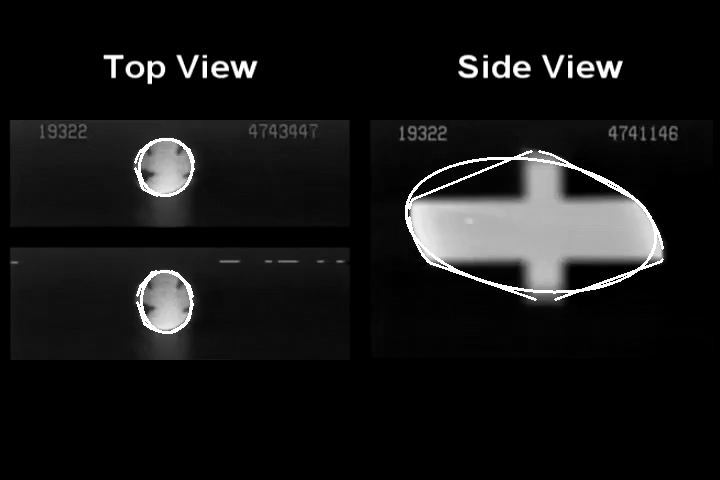
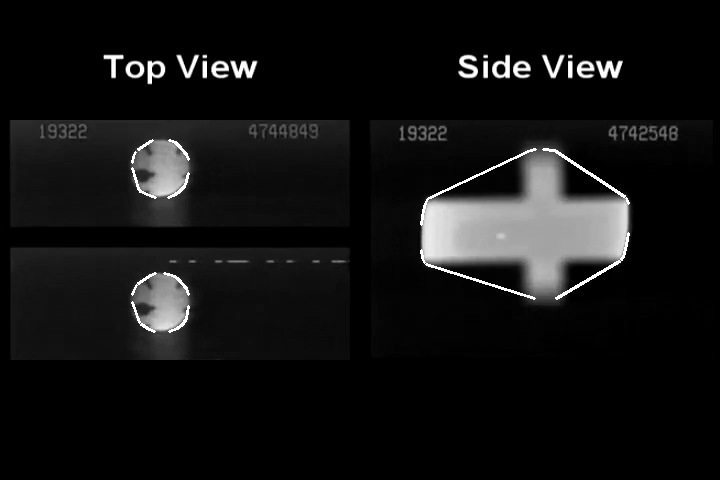
settled on using convexity

diff --git a/processImageConvexity.py b/processImageConvexity.py
@@ -1,93 +1,114 @@
 import numpy as np
 import cv2
-
+import os
+import math
 import matplotlib.pyplot as plt
 
-from skimage import data, color
-from skimage.transform import hough_circle, hough_circle_peaks
-from skimage.feature import canny
-from skimage.draw import circle_perimeter
-from skimage.util import img_as_ubyte
+def getListOfFiles(dirName):
+    listOfFile = os.listdir('frames(20633-20650)')
+    allFiles = list()
+    for entry in listOfFile:
+        # Create full path
+        fullPath = os.path.join(dirName, entry)
+        # If entry is a directory then get the list of files in this directory 
+        if os.path.isdir(fullPath):
+            allFiles = allFiles + getListOfFiles(fullPath)
+        else:
+            allFiles.append(fullPath)
+                
+    return allFiles   
 
-img = cv2.imread("frames(20633-20650)/scene00001.png", 0)
-height, width = img.shape[0:2]
+def processImage(img):
+    height, width = img.shape[0:2]
 
-thresh = 75
+    thresh = 68
+    # change to easier to deal with black and white image
+    ret, thresh = cv2.threshold(img, thresh, 255, cv2.THRESH_BINARY)
 
-#adaptiveThresh = cv2.adaptiveThreshold(img, 255, cv2.ADAPTIVE_THRESH_GAUSSIAN_C, cv2.THRESH_BINARY, 215, 1)
-# change to easier to deal with black and white image
-ret, thresh = cv2.threshold(img, thresh, 255, cv2.THRESH_BINARY)
-
-# eliminate noise in image
-kernel = np.ones((7,7), 'uint8')
-# remove noise in image and leave only the circles, erodes, then dilates
-imgOpening = cv2.morphologyEx(thresh, cv2.MORPH_OPEN, kernel)
-# Look at Canny edge detection
-#edges = cv2.Canny(img, 10, 80)
-#cv2.imwrite("cannyimage.png", edges)
-
-
-# contours on adjusted image to create shape
-contours, hierarchy = cv2.findContours(imgOpening, cv2.RETR_TREE, cv2.CHAIN_APPROX_SIMPLE)
-
-imgContours = img.copy()
-index = -1
-thickness = 3
-color = (255, 0, 255)
+    # eliminate noise in image
+    kernel = np.ones((7,7), 'uint8')
+    # remove noise in image and leave only the circles, erodes, then dilates
+    imgOpening = cv2.morphologyEx(thresh, cv2.MORPH_OPEN, kernel)
 
 
-objects = np.zeros([imgOpening.shape[0], imgOpening.shape[1], 3], np.uint8)
-imgBlack = np.zeros([imgOpening.shape[0], imgOpening.shape[1], 3], np.uint8)
+    # contours on adjusted image to create shape
+    contours, hierarchy = cv2.findContours(imgOpening, cv2.RETR_TREE, cv2.CHAIN_APPROX_SIMPLE)
 
-for c in contours:
-    hull = cv2.convexHull(c,returnPoints = False)
-    defects = cv2.convexityDefects(c,hull)
-
-    for i in range(defects.shape[0]):
-        s,e,f,d = defects[i,0]
-        start = tuple(c[s][0])
-        end = tuple(c[e][0])
-        far = tuple(c[f][0])
-        cv2.line(imgBlack,start,end,color,2)
-        # for comparison purposes
-        cv2.line(img,start,end,color,2)
-        #cv2.circle(imgBlack,far,5,color,-1)
-
-    cv2.drawContours(objects, [c], -1, color, -1)
-
-    area = cv2.contourArea(c)
-    perimeter = cv2.arcLength(c, True)
-
-    M = cv2.moments(c)
-    cx = int(M['m10']/M['m00'])
-    cy = int(M['m01']/M['m00'])
-    cv2.circle(objects,(cx,cy), 4, (0,0,255), -1)
-
-    print("Area: {}, perimeter, {}".format(area, perimeter))
+    imgContours = img.copy()
+    index = -1
+    thickness = 3
+    color = (255, 0, 255)
 
 
-imgBlack = cv2.cvtColor(imgBlack, cv2.COLOR_BGR2GRAY)
-contours2, hierarchy2 = cv2.findContours(imgBlack, cv2.RETR_TREE, cv2.CHAIN_APPROX_SIMPLE)
-objects2 = np.zeros([imgOpening.shape[0], imgOpening.shape[1], 3], np.uint8)
-
-for c in contours2:
-    cv2.drawContours(objects2, [c], -1, color, -1)
-
-    # area, perimeter, etc
-    area = cv2.contourArea(c)
-    perimeter = cv2.arcLength(c, True)
-
-    M = cv2.moments(c)
-    cx = int(M['m10']/M['m00'])
-    cy = int(M['m01']/M['m00'])
-    cv2.circle(objects2,(cx,cy), 4, (0,0,255), -1)
-
-    print("Area: {}, perimeter, {}".format(area, perimeter))
+    #objects = np.zeros([imgOpening.shape[0], imgOpening.shape[1], 3], np.uint8)
+    imgBlack = np.zeros([imgOpening.shape[0], imgOpening.shape[1], 3], np.uint8)
 
 
-cv2.imwrite("segmented-image.png", imgOpening)
-cv2.imwrite("contour-image.png", objects)
-cv2.imwrite("contour-on-original-image.png", img)
-cv2.imwrite("contour-on-black-image.png", imgBlack)
-cv2.imwrite("fixed-contour-image.png", objects2)
+    for c in contours:
+        hull = cv2.convexHull(c, returnPoints=False)
+        defects = cv2.convexityDefects(c, hull)
+        hull = cv2.convexHull(c)
+        area = cv2.contourArea(hull)
+        print("Convex Area: {}".format(area))
 
+        if defects is not None:
+            for i in range(defects.shape[0]):
+                s,e,f,d = defects[i,0]
+                start = tuple(c[s][0])
+                end = tuple(c[e][0])
+                far = tuple(c[f][0])
+                cv2.line(imgBlack,start,end,color,2)
+                # for comparison purposes
+                cv2.line(img,start,end,color,2)
+                #cv2.circle(imgBlack,far,5,color,-1)
+
+
+
+    cv2.imwrite("segmented-image.png", imgOpening)
+    cv2.imwrite("contour-on-original-image.png", img)
+    cv2.imwrite("contour-on-black-image.png", imgBlack)
+    # cv2.imwrite("fixed-contour-image.png", imgContours)
+
+    return area
+
+def main():
+    dirName = 'frames(20633-20650)';
+    
+    # Get the list of all files in directory tree at given path
+    listOfFiles = getListOfFiles(dirName)
+
+    # for files in listOfFiles:
+    #     img = cv2.imread(files, 0)
+    #     area = processImage(img)
+
+    plt.plot([1,2,3,4])
+    plt.ylabel('some numbers')
+    plt.show()
+    plt.savefig('plots/basic-plot.png')
+    
+
+if __name__ == '__main__':
+    main()
+
+
+
+
+
+
+# imgBlack = cv2.cvtColor(imgBlack, cv2.COLOR_BGR2GRAY)
+# contours2, hierarchy2 = cv2.findContours(imgBlack, cv2.RETR_TREE, cv2.CHAIN_APPROX_SIMPLE)
+# objects2 = np.zeros([imgOpening.shape[0], imgOpening.shape[1], 3], np.uint8)
+
+# for c in contours2:
+#     cv2.drawContours(imgContours, [c], -1, color, -1)
+
+#     # area, perimeter, etc
+#     area = cv2.contourArea(c)
+#     perimeter = cv2.arcLength(c, True)
+
+#     M = cv2.moments(c)
+#     cx = int(M['m10']/M['m00'])
+#     cy = int(M['m01']/M['m00'])
+#     cv2.circle(imgContours,(cx,cy), 4, (0,0,255), -1)
+
+#     print("Area: {}, perimeter, {}".format(area, perimeter))

diff --git a/processImageEllipse.py b/processImageEllipse.py
@@ -1,0 +1,90 @@
+import numpy as np
+import cv2
+import math
+
+img = cv2.imread("frames(20633-20650)/scene00001.png", 0)
+height, width = img.shape[0:2]
+
+thresh = 75
+# change to easier to deal with black and white image
+ret, thresh = cv2.threshold(img, thresh, 255, cv2.THRESH_BINARY)
+
+# eliminate noise in image
+kernel = np.ones((7,7), 'uint8')
+# remove noise in image and leave only the circles, erodes, then dilates
+imgOpening = cv2.morphologyEx(thresh, cv2.MORPH_OPEN, kernel)
+# maybe dilate a bit since the fitted ellipse is smaller
+#imgOpening = cv2.dilate(thresh, np.ones((3,3), 'uint8'), iterations=1)
+
+
+# contours on adjusted image to create shape
+contours, hierarchy = cv2.findContours(imgOpening, cv2.RETR_TREE, cv2.CHAIN_APPROX_SIMPLE)
+
+imgContours = img.copy()
+index = -1
+thickness = 3
+color = (255, 0, 255)
+
+
+imgBlack = np.zeros([imgOpening.shape[0], imgOpening.shape[1], 3], np.uint8)
+
+for c in contours:
+    ellipse = cv2.fitEllipse(c)
+    ellipseImage = cv2.ellipse(img,ellipse,color,2)
+    ellipseBlackImage = cv2.ellipse(imgBlack,ellipse,color,2)
+    # center, axis_length and orientation of ellipse
+    (center,axes,orientation) = ellipse
+    # length of MAJOR and minor axis
+    majoraxis_length = max(axes)
+    minoraxis_length = min(axes)
+    # eccentricity = sqrt( 1 - (ma/MA)^2) --- ma= minor axis --- MA= major axis
+    eccentricity = np.sqrt(1-(minoraxis_length/majoraxis_length)**2)
+    # area of ellipse
+    area = math.pi*(majoraxis_length/2)*(minoraxis_length/2)
+    print("Area: {}, eccentricity, {}".format(area, eccentricity))
+    hull = cv2.convexHull(c)
+    # defects = cv2.convexityDefects(c,hull)
+    area = cv2.contourArea(hull)
+    print("Convex Area: {}".format(area))
+    #convexImage = c.convexImage(c)
+    # rect = cv2.minAreaRect(c)
+    # box = cv2.boxPoints(rect)
+    # box = np.int0(box)
+    # cv2.drawContours(ellipseImage,[box],0,color,2)
+    # for i in range(defects.shape[0]):
+    #     s,e,f,d = defects[i,0]
+    #     start = tuple(c[s][0])
+    #     end = tuple(c[e][0])
+    #     far = tuple(c[f][0])
+    #     cv2.line(ellipseBlackImage,start,end,color,2)
+    #     # for comparison purposes
+    #     cv2.line(ellipseImage,start,end,color,2)
+    #     #cv2.circle(imgBlack,far,5,color,-1)
+
+
+
+objects = np.zeros([imgOpening.shape[0], imgOpening.shape[1], 3], np.uint8)
+# contours on fitted ellipse
+contours2, hierarchy2 = cv2.findContours(imgOpening, cv2.RETR_TREE, cv2.CHAIN_APPROX_SIMPLE)
+
+for c in contours2:
+    cv2.drawContours(objects, [c], -1, color, -1)
+
+    area = cv2.contourArea(c)
+    perimeter = cv2.arcLength(c, True)
+
+    M = cv2.moments(c)
+    cx = int(M['m10']/M['m00'])
+    cy = int(M['m01']/M['m00'])
+    cv2.circle(objects,(cx,cy), 4, (0,0,255), -1)
+
+    print("Area: {}, perimeter, {}".format(area, perimeter))
+
+
+
+cv2.imwrite("segmented-image.png", imgOpening)
+cv2.imwrite("ellipse-image.png", ellipseImage)
+cv2.imwrite("ellipse-black-image.png", ellipseBlackImage)
+#cv2.imwrite("convex-black-image.png", convexImage)
+# cv2.imwrite("contoured-image.png", objects)
+
